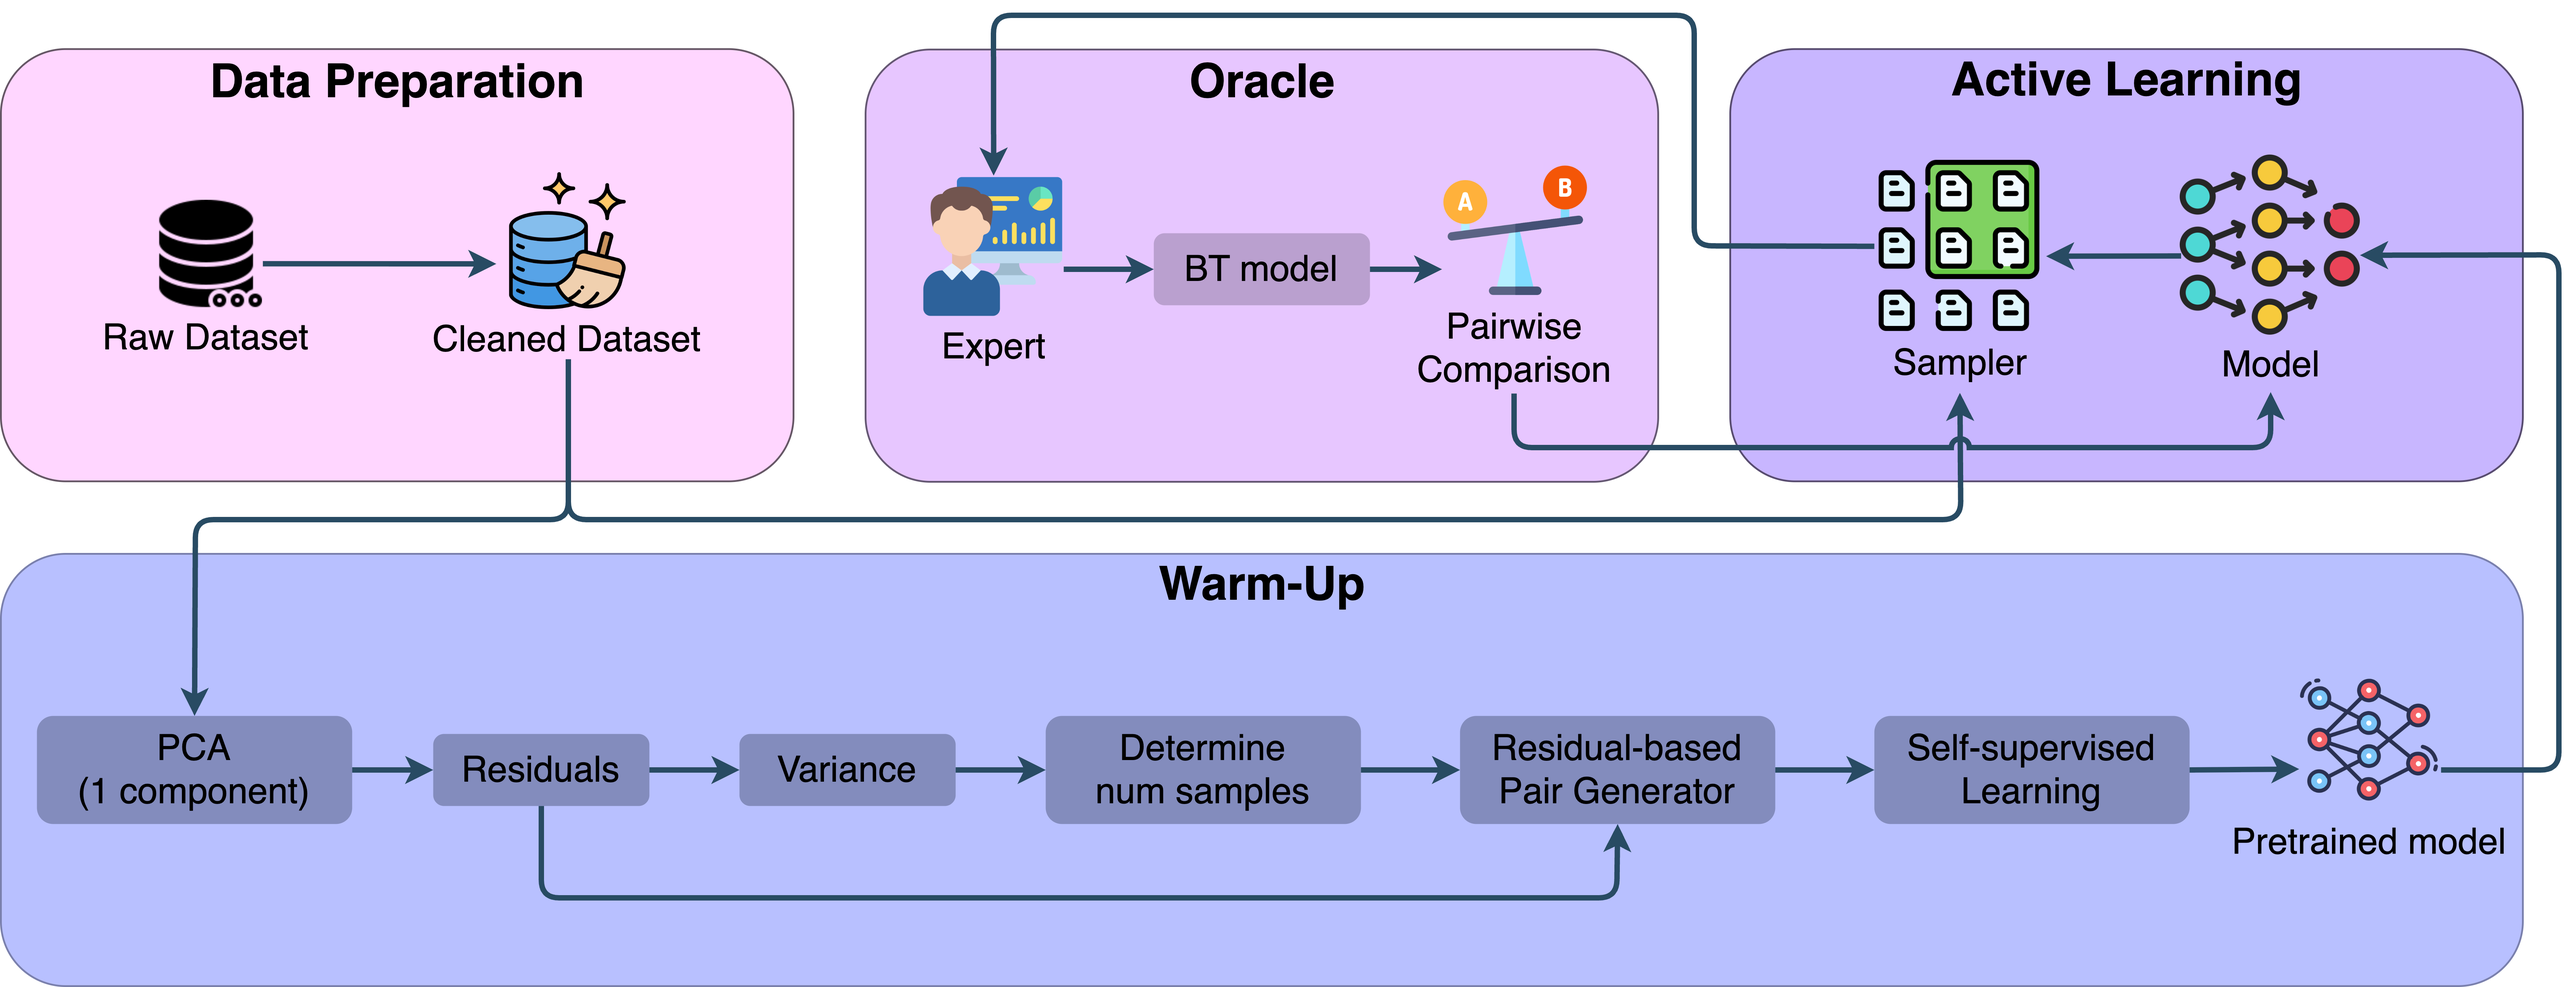
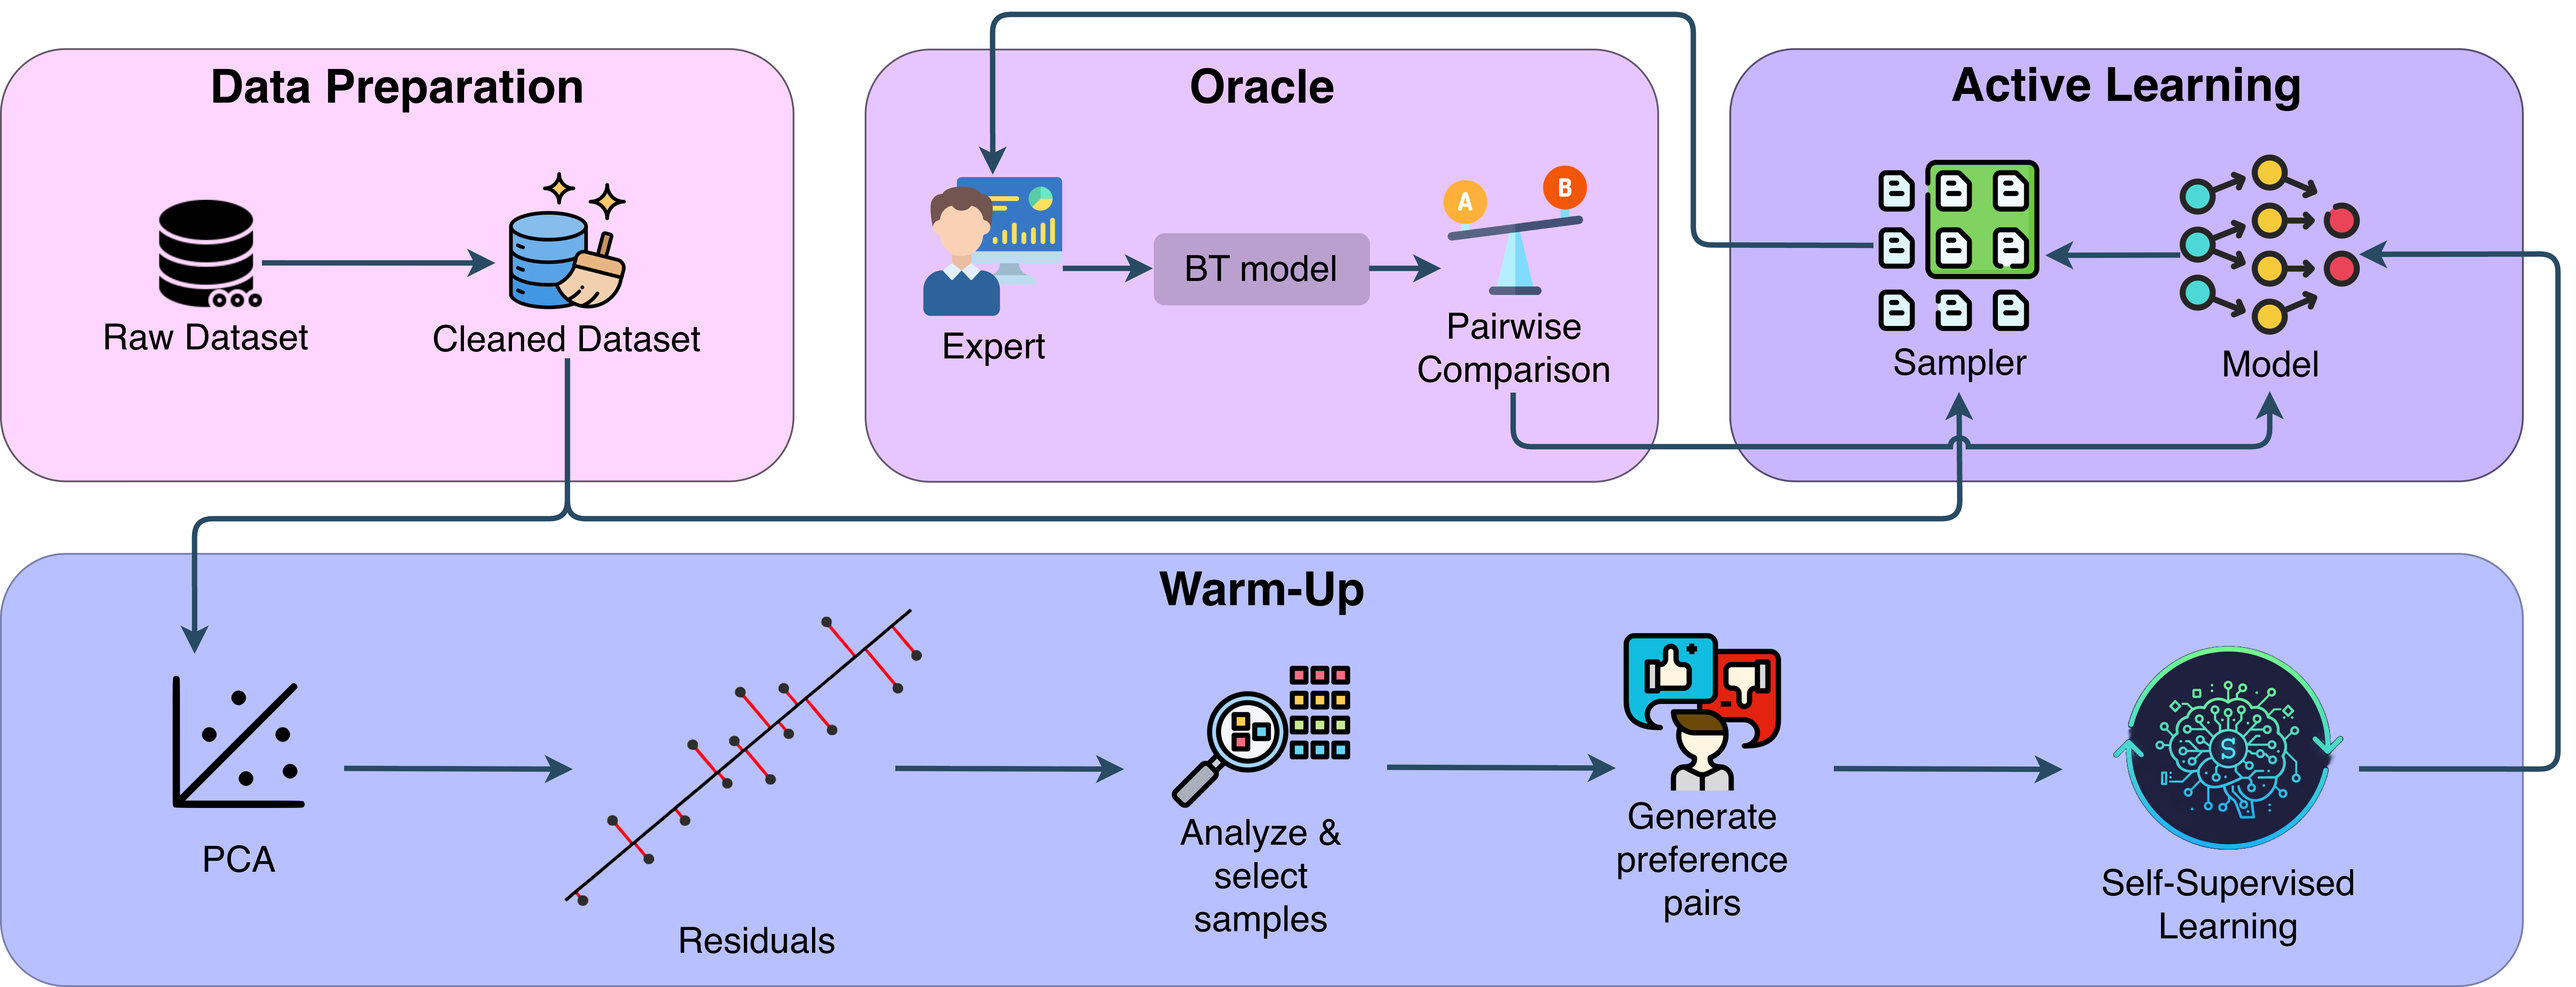
Updated readme

diff --git a/README.md b/README.md
@@ -9,11 +9,7 @@ This repository contains the official source code and experimental setup for the
 
 ## Abstract
 
-Active preference learning is a powerful paradigm for efficiently modeling preferences, yet it suffers from the cold-start problem: a significant drop in performance when no initial labeled data is available. This challenge is particularly acute in computational social systems and economic analysis, where labeled data is often scarce, expensive, and subject to expert noise.
-
-To address this gap, we propose a novel framework for cold-start active preference learning. Our method initiates the learning process through a self-supervised pre-training phase, utilizing Principal Component Analysis (PCA) to derive initial pseudo-labels from the data's inherent structure, thereby creating a "cold-start" model without any initial oracle interaction.
-
-Subsequently, the model is refined through an active learning loop that strategically queries a simulated noisy oracle for labels. We conduct extensive experiments on diverse datasets from different domains, including financial credibility, career success rate, and socio-economic status. The results demonstrate that our cold-start approach outperforms standard active learning strategies that begin from a blank slate, achieving higher accuracy with substantially fewer labeled pairs. Our framework offers a practical and effective solution to mitigate the cold-start problem, enhancing the sample efficiency and applicability of preference learning in data-constrained environments.
+Active preference learning offers an efficient approach to modeling preferences, but it is hindered by the cold-start problem, which leads to a marked decline in performance when no initial labeled data are available. While cold-start solutions have been proposed for domains such as vision and text, the cold-start problem in active preference learning remains largely unexplored, underscoring the need for practical, effective methods. Drawing inspiration from established practices in social and economic research, the proposed method initiates learning with a selfsupervised phase that employs Principal Component Analysis (PCA) to generate initial pseudo-labels. This process produces a “warmed-up” model based solely on the data’s intrinsic structure, without requiring expert input. The model is then refined through an active learning loop that strategically queries a simulated noisy oracle for labels. Experiments conducted on various socioeconomic datasets, including those related to financial credibility, career success rate, and socio-economic status, consistently show that the PCA-driven approach outperforms standard active learning strategies that start without prior information. This work thus provides a computationally efficient and straightforward solution that effectively addresses the cold-start problem.
 
 ---
 
